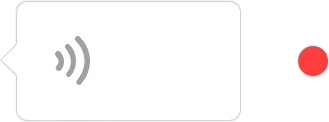
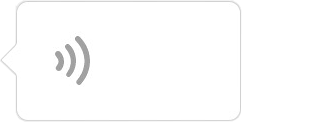
调用微信jssdk接口开发录音功能

Changed region(s): [[0.8815, 0.3689, 1.0, 0.6393]]

diff --git a/routes/index.js b/routes/index.js
@@ -1,6 +1,15 @@
 var multer = require('multer');
-
+var https = require('https');
+var http = require('http');
+var fs = require('fs');
+var config = require('../config.js');
 var Form = require('../models/form.js');
+
+
+var appId = config.wxConfig.appId;
+var secret = config.wxConfig.appSecret;
+var accessToken = "";
+
 
 module.exports = function(app) {
     app.get('/', function(req, res, next) {
@@ -8,11 +17,19 @@ module.exports = function(app) {
     });
 
     app.get('/signup', function(req, res, next) {
-        res.render('signup', { title: '“家书抵万金”朗读大赛' });
+        getAccessToken(appId, secret);
+        res.render('signup', {
+            title: '“家书抵万金”朗读大赛',
+            appId: config.wxConfig.appId,
+            signature: req.query.signature,
+            timestamp: req.query.timestamp,
+            nonceStr: req.query.nonce
+        });
     });
 
     app.get('/success', function(req, res, next) {
         res.render('success', { title: '“家书抵万金”朗读大赛' });
+
     });
 
 
@@ -32,19 +49,28 @@ module.exports = function(app) {
     })
 
     var upload = multer({ storage: storage })
-    var cpUpload = upload.fields([{ name: 'img1', maxCount: 1 }, { name: 'img2', maxCount: 1 }, { name: 'img3', maxCount: 1 }, { name: 'audio', maxCount: 1 }]);
+    var cpUpload = upload.fields([{ name: 'img1', maxCount: 1 }, { name: 'img2', maxCount: 1 }, { name: 'img3', maxCount: 1 }]);
+
     app.post('/signup', cpUpload, function(req, res, next) {
 
         var name = req.body.name;
         var tel = req.body.tel;
         var original = req.body.original;
-
+        var audioId = req.body.audio;
+        var audio = {
+            fieldname: 'audio',
+            mimetype: '',
+            destination: './uploads/audios',
+            filename: '',
+            path: '',
+            size: ''
+        };
         // console.log(name + tel + original);
         //判断req.files['name']是否undefined
         var img1 = '';
         var img2 = '';
         var img3 = '';
-        var audio = '';
+        // var audio = '';
 
         if (req.files['img1']) {
             img1 = req.files['img1'][0];
@@ -58,20 +84,80 @@ module.exports = function(app) {
             img3 = req.files['img3'][0];
             // saveImg(img3, targetDir);
         }
-        if (req.files['audio']) {
-            audio = req.files['audio'][0];
-            // saveImg(img3, targetDir);
-        }
+        // if (req.files['audio']) {
+        //     audio = req.files['audio'][0];
+        //     // saveImg(img3, targetDir);
+        // }
         // var img2 = req.files['img2'][0];
         // var img3 = req.files['img3'][0];
         // console.log(img1);
-        var form = new Form(name, tel, original, img1, img2, img3, audio);
-        form.save(function(err) {
-            if (err) {
-                req.flash('error', err);
-                return res.redirect('/signup');
-            }
-            res.redirect('/success');
+
+        //根据audioId从微信服务器下载音频文件
+        function downloadFile(accessToken, mediaId) {
+            var url = "http://file.api.weixin.qq.com/cgi-bin/media/get?access_token=" + accessToken + "&media_id=" + mediaId;
+            http.get(url, function(res) {
+                audio.mimetype = res.headers['content-type'];
+                res.setEncoding("binary");
+                var fileName = "audio-" + Date.now() + "." + audio.mimetype.split('/')[1];
+                audio.filename = fileName;
+                audio.path = "uploads\\audios\\" + fileName;
+                audio.size = res.headers['content-length'];
+
+                var rawData = '';
+                res.on('data', (chunk) => { rawData += chunk; });
+                res.on('end', () => {
+                    try {
+                        fs.writeFile("./uploads/audios/" + fileName, rawData, "binary", function(err) {
+                            if (err) throw err;
+                            // console.log('The file has been saved!');
+                        });
+
+                        //表单存储到数据库
+                        var form = new Form(name, tel, original, img1, img2, img3, audio);
+                        form.save(function(err) {
+                            if (err) {
+                                req.flash('error', err);
+                                return res.redirect('/signup');
+                            }
+                            res.redirect('/success');
+                        })
+
+                    } catch (e) {
+                        console.error(e.message);
+                    }
+                });
+            })
+        }
+    });
+
+    app.post('/getWeChatConfig', function(req, res) {
+        var signature = req.query.signature;
+        var timestamp = req.query.timestamp;
+        var nonceStr = req.query.nonce;
+        var appId = config.wxConfig.appId;
+
+        res.json({
+            appId: appId,
+            timestamp: timestamp,
+            signature: signature,
+            nonceStr: nonceStr
         })
     });
+
+
+    function getAccessToken(appId, secret) {
+        https.get("https://api.weixin.qq.com/cgi-bin/token?grant_type=client_credential&appid=" + appId + "&secret=" + secret, function(res) {
+            res.setEncoding('utf8');
+            var rawData = '';
+            res.on('data', (chunk) => { rawData += chunk; });
+            res.on('end', () => {
+                try {
+                    const parsedData = JSON.parse(rawData);
+                    accessToken = parsedData.access_token;
+                } catch (e) {
+                    console.error(e.message);
+                }
+            });
+        });
+    }
 };

diff --git a/public/javascripts/signup.js b/public/javascripts/signup.js
@@ -44,9 +44,9 @@ $(function() {
         }
     })
 
-    $("input[name='audio']").change(function() {
-        $('#record img').show();
-    })
+    // $("input[name='audio']").change(function() {
+    //     $('#record audio').show();
+    // })
 
     $('#prev1').click(function() {
         $("input[name='img1']").click();
@@ -93,18 +93,94 @@ $(function() {
     }
 
 
-    //报名页面录音按钮
-    $('#record button').click(function() {
+    //录音功能调用微信jssdk实现
+    wx.ready(function() {
+            wx.onVoiceRecordEnd({
+                // 录音时间超过一分钟没有停止的时候会执行 complete 回调
+                complete: function(res) {
+                    playVoice(res.localId);
+                    uploadVoice(res.localId);
+                }
+            });
 
-        // navigator.mediaDevices.getUserMedia({ audio: true, video: false }, function(mediaStream) {
-        //     var video = document.querySelector('video');
-        //     video.src = window.URL.createObjectURL(mediaStream);
-        //     video.onloadedmetadata = function(e) {
-        //         // Do something with the video here.
-        //     };
-        // }, function(err) {
-        //     console.log(err.name);
-        // });
-        $("input[name='audio']").click();
-    })
+            wx.onVoicePlayEnd({
+                success: function(res) {
+                    stopWave();
+                }
+            });
+        })
+        //报名页面录音按钮
+    var startTime = 0;
+    var endTime = 0;
+    var recordTimer;
+    $('#record button').on('touchstart', function() {
+        // $("input[name='audio']").click();
+        event.preventDefault();
+        startTime = new Date().getTime();
+        recordTimer = setTimeout(function() {
+            wx.startRecord({
+                success: function() {
+                    localStorage.rainAllowRecord = 'true';
+                },
+                cancel: function() {
+                    alert('用户拒绝授权录音');
+                }
+            });
+        }, 300);
+    });
+
+    $('#record button').on('touchend', function() {
+        event.preventDefault();
+        endTime = new Date().getTime();
+        if ((endTime - startTime) < 300) {
+            endTime = 0;
+            startTime = 0;
+            //小于300ms，不录音
+            clearTimeout(recordTimer);
+        } else {
+            wx.stopRecord({
+                success: function(res) {
+                    playVoice(res.localId);
+                    uploadVoice(res.localId);
+                },
+                fail: function(res) {
+                    alert(JSON.stringify(res));
+                }
+            });
+        }
+    });
+
+    function playVoice(localId) {
+        $('#record img').show();
+        $('#record img').click(function() {
+            wx.playVoice({
+                localId: localId // 需要播放的音频的本地ID，由stopRecord接口获得
+            });
+        })
+    }
+    //上传录音
+    function uploadVoice(localId) {
+        //调用微信的上传录音接口把本地录音先上传到微信的服务器
+        //不过，微信只保留3天，而我们需要长期保存，我们需要把资源从微信服务器下载到自己的服务器
+        wx.uploadVoice({
+            localId: localId, // 需要上传的音频的本地ID，由stopRecord接口获得
+            isShowProgressTips: 1, // 默认为1，显示进度提示
+            success: function(res) {
+                //把录音在微信服务器上的id（res.serverId）发送到自己的服务器供下载。
+                $("input[name='audio']").val(localId);
+                // $.ajax({
+                //     url: '/downloadAudio',
+                //     type: 'post',
+                //     data: JSON.stringify(res),
+                //     dataType: "json",
+                //     success: function(data) {
+                //         console.log('文件已经保存到服务器');
+                //     },
+                //     error: function(xhr, errorType, error) {
+                //         console.log(error);
+                //     }
+                // });
+            }
+        });
+    }
 });

diff --git a/public/stylesheets/style.css b/public/stylesheets/style.css
@@ -346,6 +346,7 @@ body {
     margin-top: 1.4rem;
     background: url(../images/fingerprint.gif) -0.15rem -0.12rem;
     background-size: 1.65rem 1.65rem;
+    user-select: none;
 }
 
 
@@ -426,6 +427,7 @@ body {
 .sign-up-page #imgAdd {
     margin: 0 auto;
     text-align: center;
+    cursor: pointer;
 }
 
 .sign-up-page #record {
@@ -434,19 +436,28 @@ body {
 }
 
 .sign-up-page #record img {
+    cursor: pointer;
     display: none;
+    user-select: none;
     width: 2rem;
     margin-bottom: -0.2rem;
+}
+
+.sign-up-page #record audio {
+    margin: 0 auto;
+    display: none;
 }
 
 .sign-up-page #record button {
     margin-top: 0.5rem;
     width: 3.0rem;
+    cursor: pointer;
     color: #666;
     background-color: #eee;
     font-size: 0.24rem;
     height: 0.6rem;
     border-radius: 0.05rem;
+    user-select: none;
 }
 
 .sign-up-page #record button:active {
@@ -456,6 +467,10 @@ body {
 .sign-up-page form input[name=audio] {
     margin: 0.2rem 0;
     width: 2rem;
+}
+
+#submit {
+    cursor: pointer;
 }
 
 

diff --git a/config.js b/config.js
@@ -2,5 +2,9 @@ module.exports = {
     cookieSecret: 'rcApp',
     db: 'rcApp',
     host: 'localhost',
-    port: 27017
+    port: 27017,
+    wxConfig: {
+        appId: 'wx61afb7c6dddd0806',
+        appSecret: 'b1def0804063b267dc2650806d6409af'
+    }
 };
